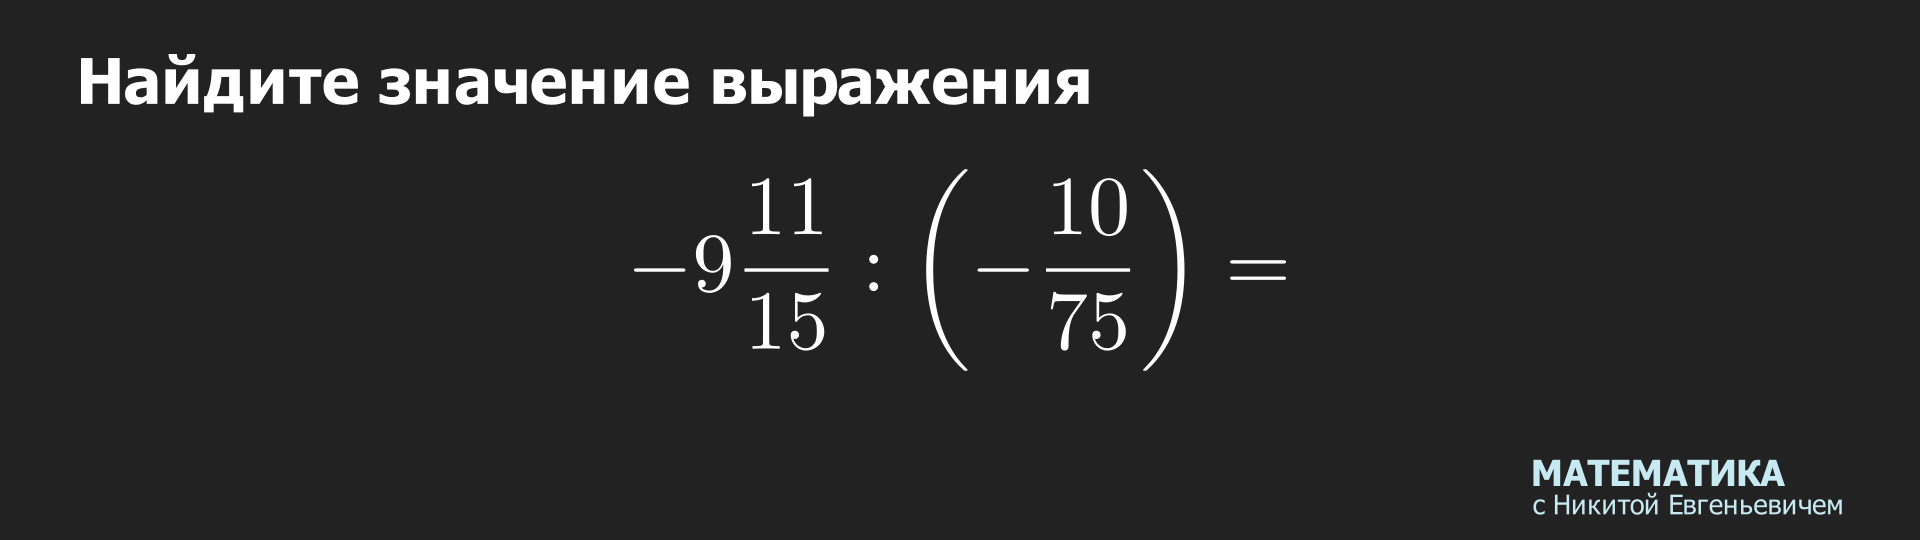
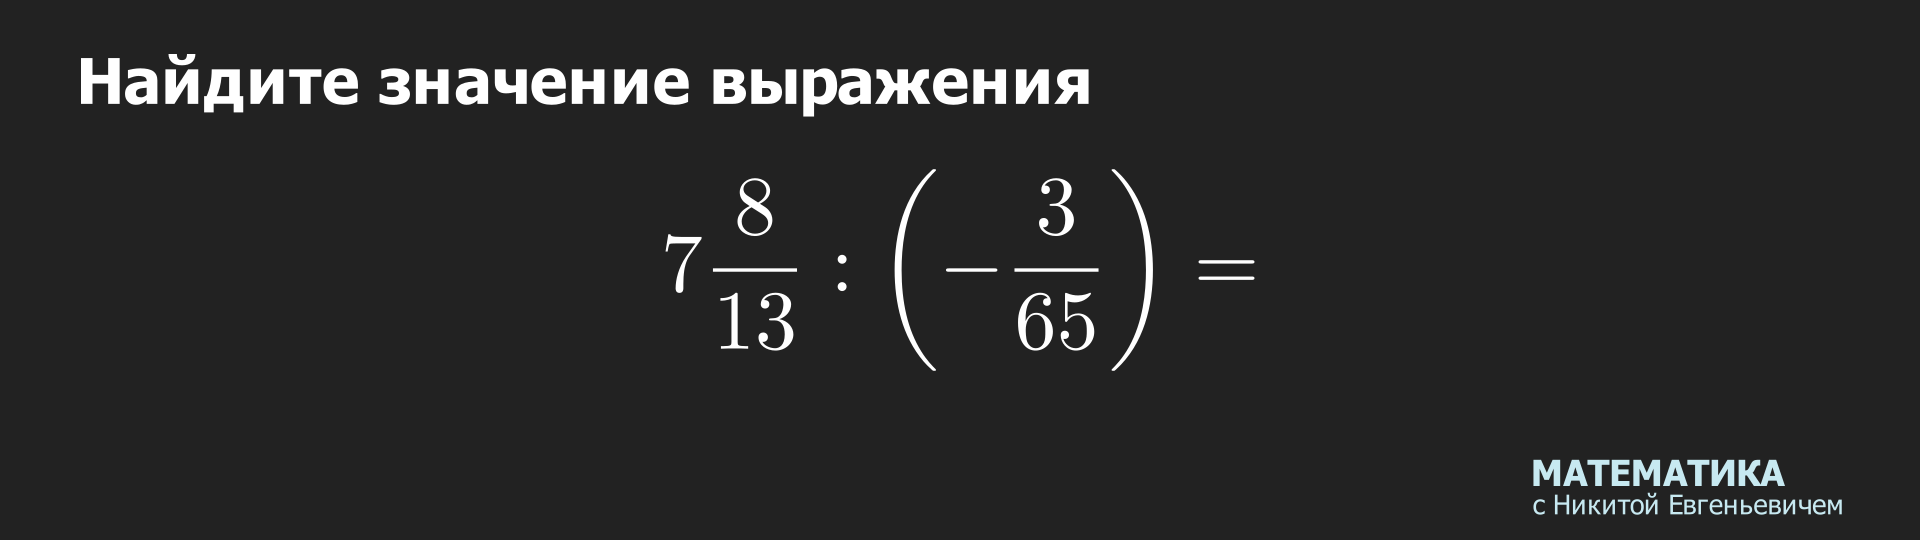
task_4_5

Changed region(s): [[0.3125, 0.3259, 0.5312, 0.6815], [0.5312, 0.3259, 0.6875, 0.6519]]

diff --git a/main.py b/main.py
@@ -209,3 +209,60 @@ class id0401004(Scene):
             i += 1
 
         f.close()
+
+def arithmetic_5():
+    bool = True
+    while bool:
+        a = random.randint(1, 6)
+        b = random.randint(1, 9)
+        c = random.randint(1, 9)
+
+        d = random.randint(1, 40) / 10
+
+        e = random.randint(1, 6)
+        f = random.randint(1, 9)
+        g = random.randint(1, 9)
+
+        res = ((a * c + b) / c - d) / ((e * g + f) / g)
+
+        if (d - int(d)) == 0:
+            d = round(d)
+
+        fract_ok = False
+        fract_ok_1 = False
+
+        if (get_all_divisors(b, c) and get_all_divisors(f, g)):
+            fract_ok = True
+
+        if (b != 1 and c % b == 0) or (f != 1 and g % f == 0):
+            fract_ok_1 = True
+
+        if ((res - int(res * 100) / 100) == 0) and (b < c) and (f < g) and (fract_ok == True) and (fract_ok_1 == False):
+            bool = False
+            return a, b, c, e, d, f, g, res
+
+
+class id0401005(Scene):
+    def construct(self):
+
+        self.camera.background_color = DARKER_GRAY
+
+        f = open('answer_4_5.txt','w')
+
+        i = 0
+        while i < 10:
+            a, b, c, e, d, f1, g, res = arithmetic_5()
+
+            t = MathTex("\\left(", a, "{", b, "\\over", c, "}", "-", d, "\\right)", ":", e, "{", f1, "\\over", g, "}"," = ", font_size=60)
+
+            if (res - int(res)) == 0:
+                res = round(res)
+
+            f.write(f'{res}\n')
+
+            self.add(t, s, s3)
+            self.wait(1 / 60)
+            self.clear()
+            i += 1
+
+        f.close()

diff --git a/test_TASK.py b/test_TASK.py
@@ -13,11 +13,17 @@ def arithmetic_4():
         g = random.randint(1, 9)
 
         res = ((a * c + b) / c - d) * ((e*g+f)/g)
+
         fract_ok = False
+        fract_ok_1 = False
+
         if (get_all_divisors_arithmetic_4(b, c) and get_all_divisors_arithmetic_4(f, g)):
             fract_ok = True
 
-        if ((res - int(res * 100) / 100) == 0) and (b < c) and (f < g) and (fract_ok == True) and ( c % b != 0) and (g % f != 0):
+        if(b != 1 and c % b == 0) or (f != 1 and g % f == 0):
+            fract_ok_1 = True
+
+        if ((res - int(res * 100) / 100) == 0) and (b < c) and (f < g) and (fract_ok == True) and (fract_ok_1 == False):
             bool = False
             return a, b, c, e, d, f, g, res
 
